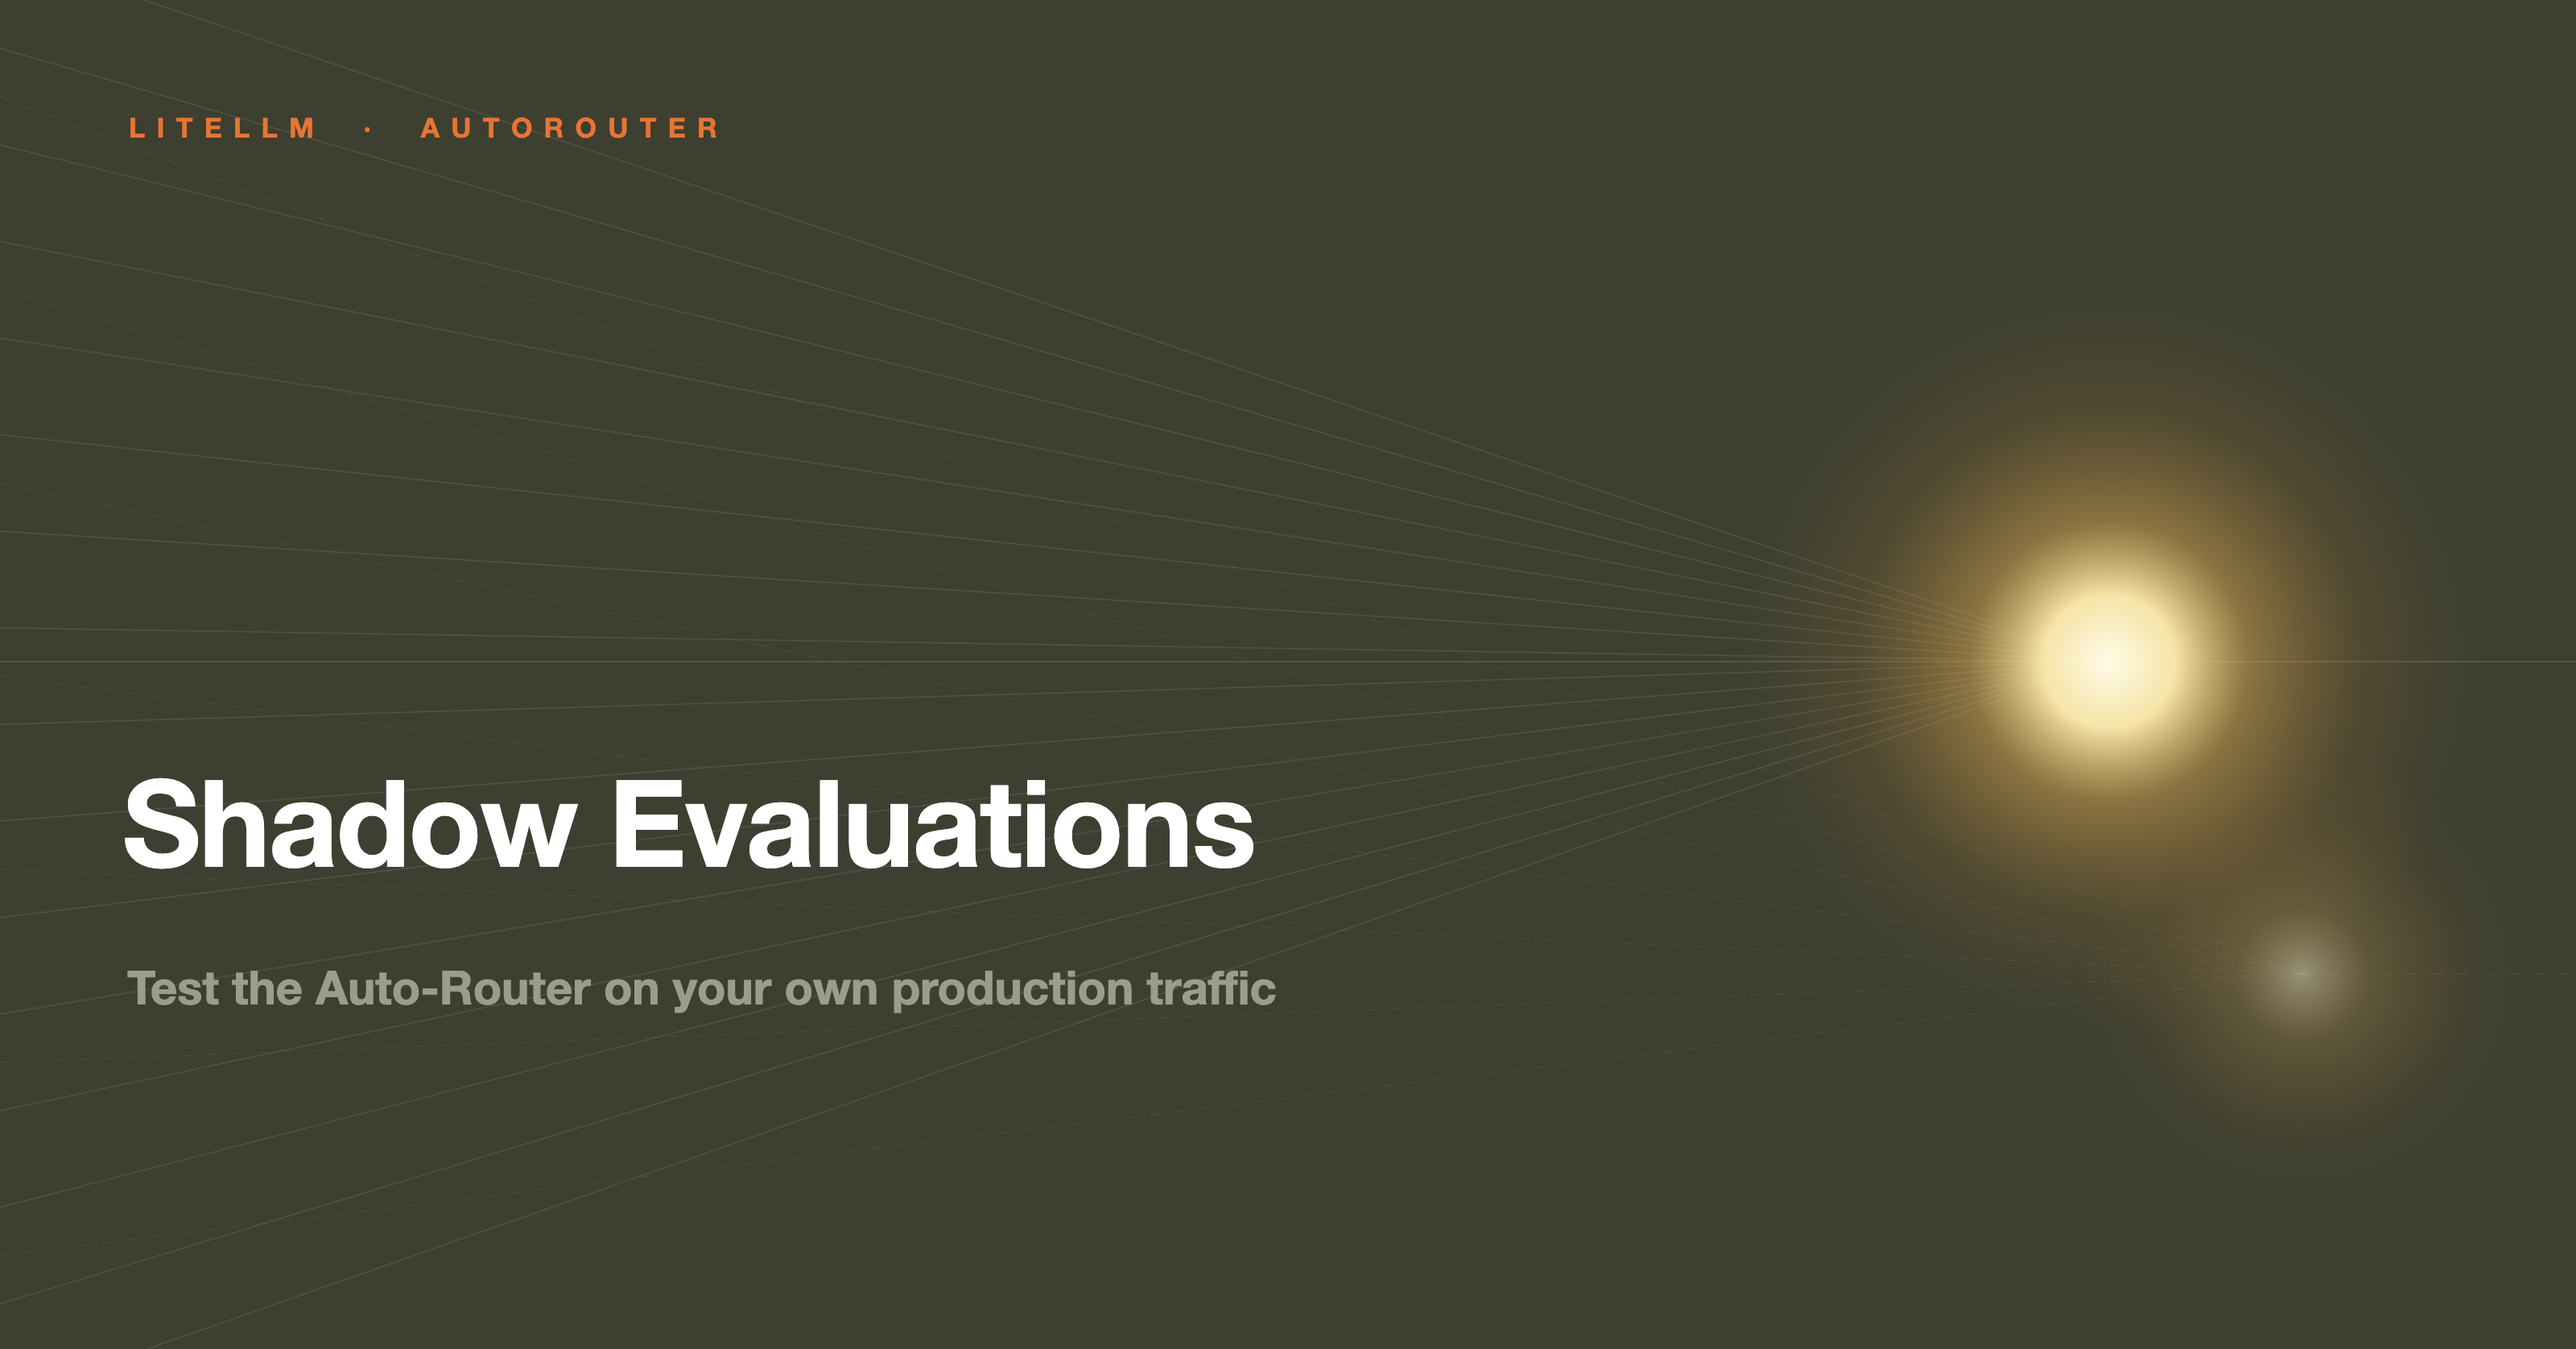
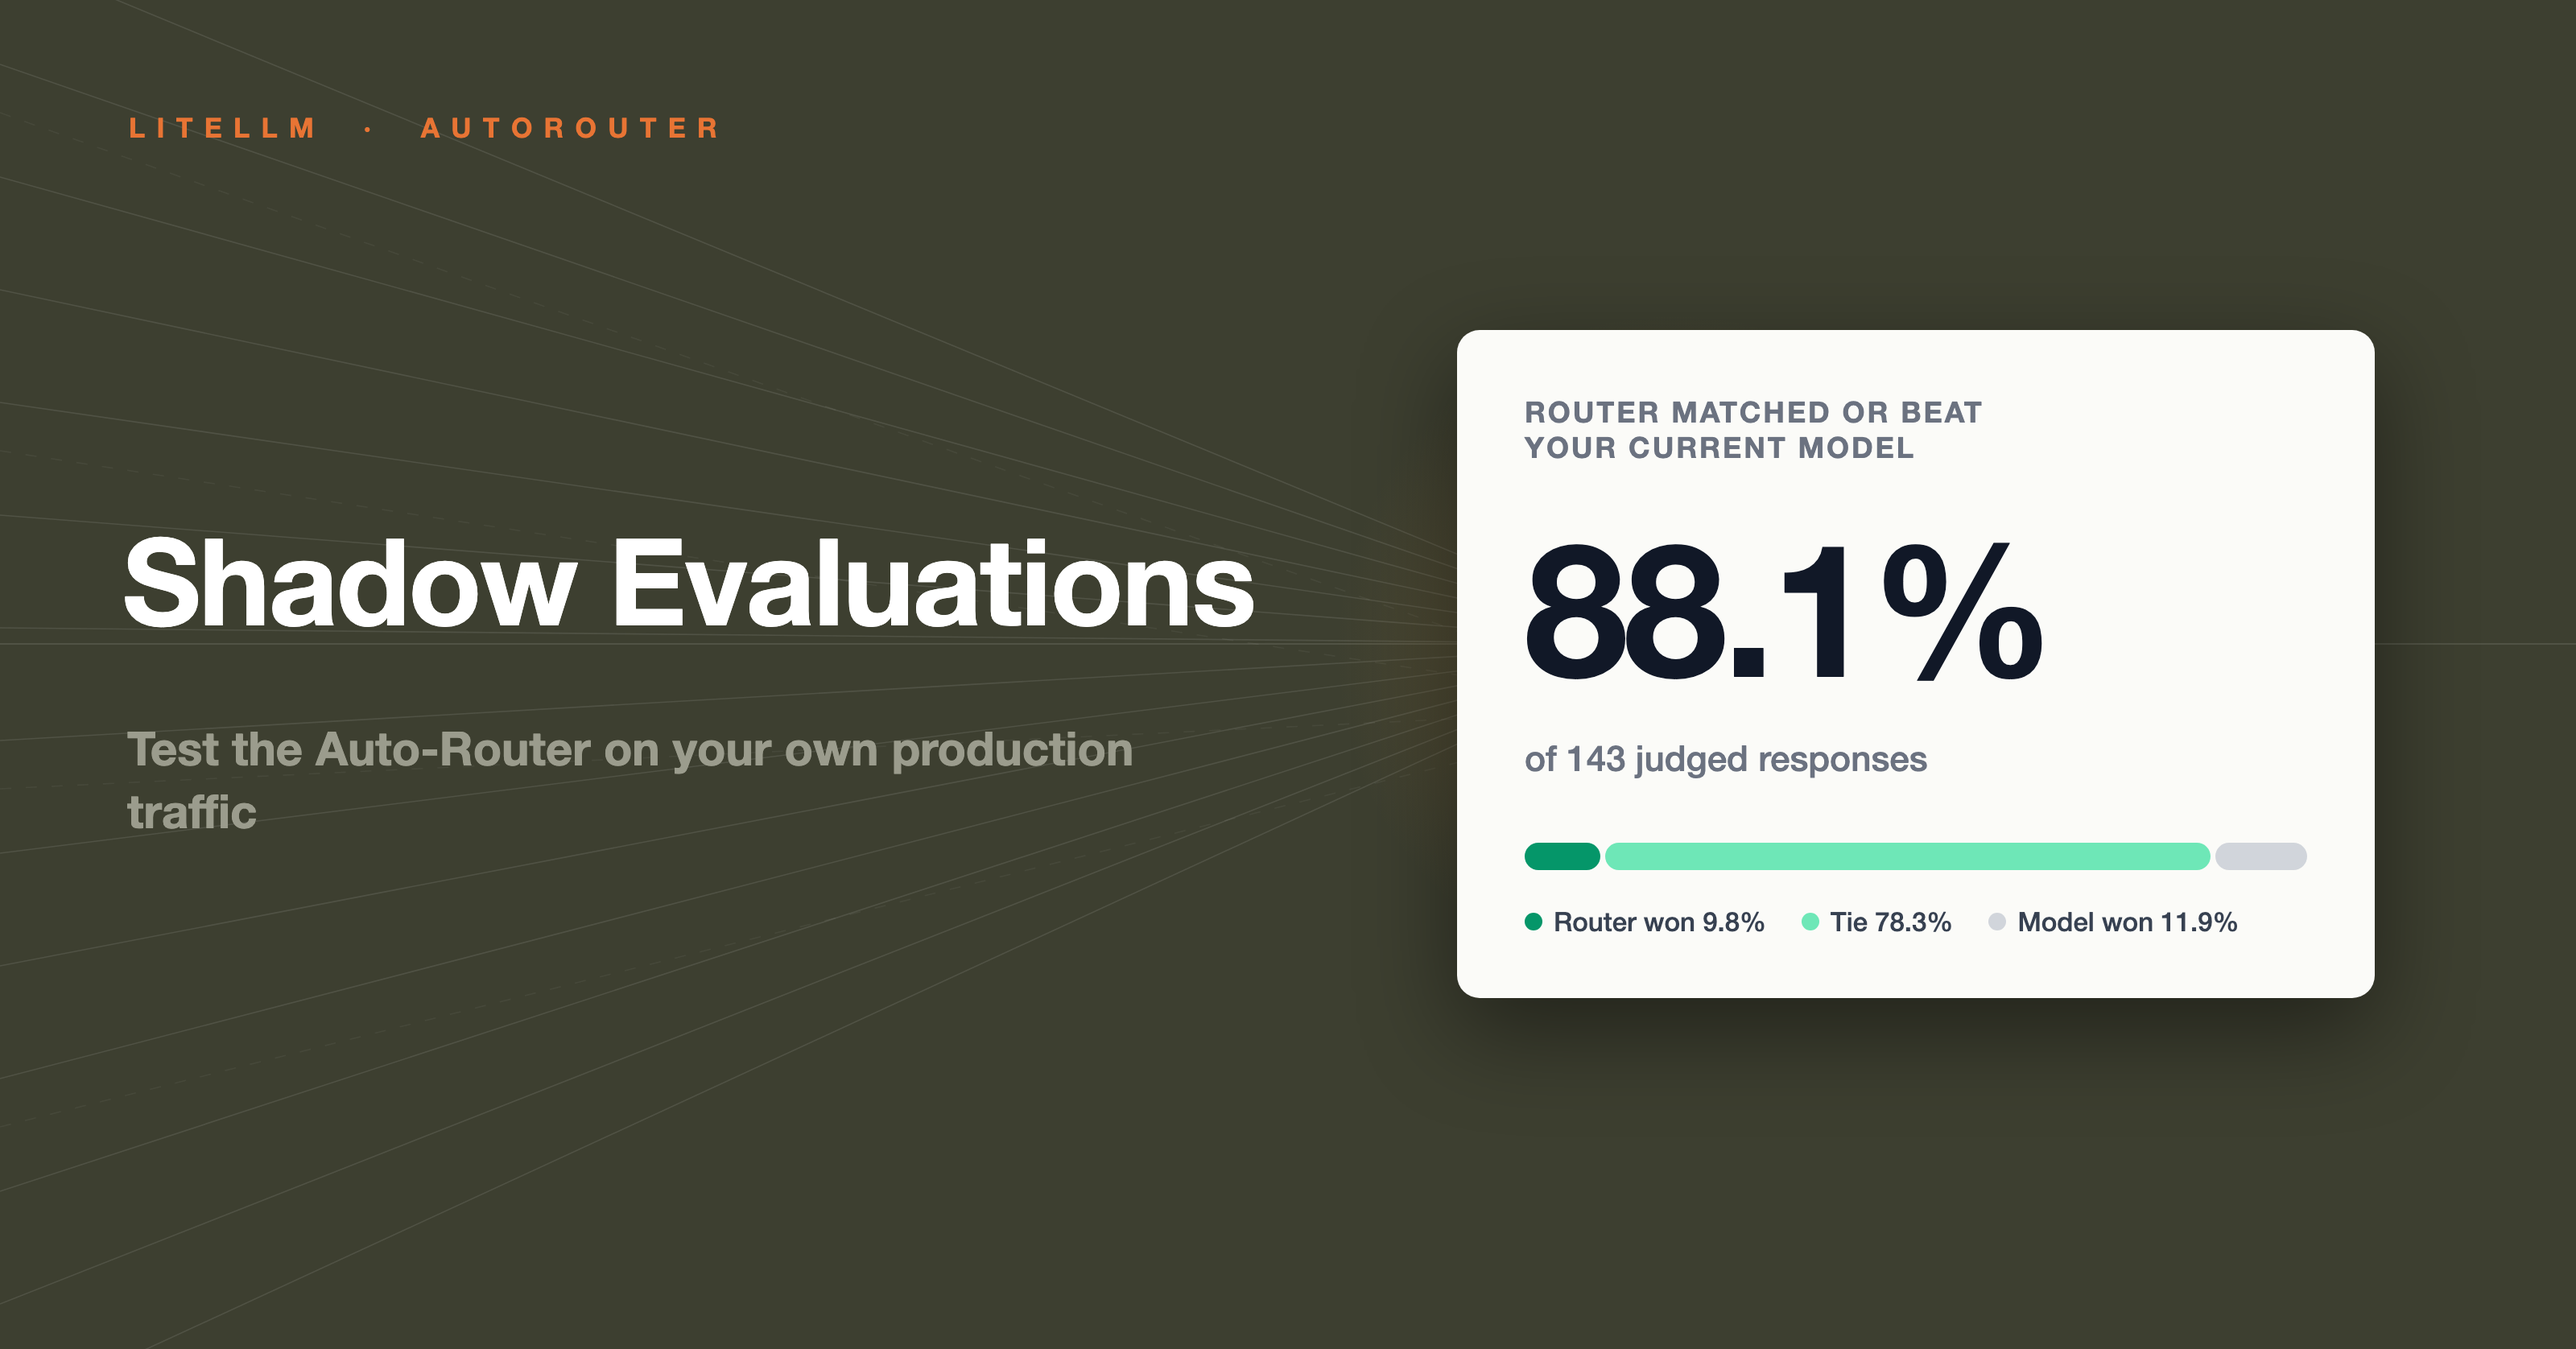
blog(shadow evals): put the 88.1% matched-or-beat result in the hero and body

diff --git a/blog/autorouter_shadow_evaluations/index.md b/blog/autorouter_shadow_evaluations/index.md
@@ -4,7 +4,7 @@ title: "Shadow Evaluations: Test the Auto-Router on Your Own Production Traffic"
 date: 2026-08-18T10:00:00
 authors:
   - tin
-description: "Shadow evaluations duplicate a sampled slice of one key's live traffic through an auto-router and have an LLM judge blindly compare the answers. You measure router quality on your real workload before a single user-facing response changes."
+description: "Shadow evaluations duplicate a sampled slice of one key's live traffic through an auto-router and have an LLM judge blindly compare the answers. On our own traffic the router matched or beat the current model on 88.1% of judged responses, measured before a single user-facing response changed."
 image: ./hero.png
 keywords: [shadow evaluation, shadow testing, auto router, llm quality evaluation, llm as a judge, model routing, litellm auto routing, llm gateway]
 tags: [routing, complexity-router, evals, quality, engineering]
@@ -13,7 +13,7 @@ hide_table_of_contents: false
 
 We have shown the Auto-Router [saving 51% in production](/blog/auto-router-production-savings) and [69% stacked on prompt caching](/blog/auto-router-prompt-caching-benchmark). The question we hear next is always the same: **"would it hold quality on my traffic?"**
 
-Shadow evaluations answer that on your own production traffic. Nothing your users see changes.
+Shadow evaluations answer that on your own production traffic, and boil it down to one number. On our own traffic below: **the router matched or beat the current model on 88.1% of judged responses**. Nothing your users see changes while it runs.
 
 ![Shadow Evaluations: test the Auto-Router on your own production traffic](./hero.png)
 
@@ -82,12 +82,20 @@ The judge defaults to `anthropic/claude-sonnet-5`; a mid-tier judge is the sweet
 
 ## Reading the results
 
+One glance answers the question. A completed job on our own traffic, 143 judged turns for $1.55 of judge spend:
+
+![Shadow eval results: router matched or beat the current model on 88.1% of 143 judged responses](./results_card.png)
+
+Ties are the point. The router mostly picks a cheaper model, so every tie is the same quality at a lower price; here only 11.9% of turns preferred the current model, and per-tier slices show exactly where those live.
+
+The job also reports:
+
 - **Win rates**: real wins, shadow wins, and ties, as shares of judged turns
 - **Per complexity tier**, so you can see exactly which tier a quality gap lives in and fix that one tier's model instead of abandoning the router
 - **Average judge confidence** per slice
 - **Judge spend so far**, tracked on the job
 
-A common outcome on tuned tier maps: the shadow arm ties or wins around half the judged turns. At that point the remaining question is not quality, it is why you are still paying flagship prices for every request.
+At 88.1% matched-or-beat, the remaining question is not quality; it is why you are still paying flagship prices for every request.
 
 ## Try it
 
